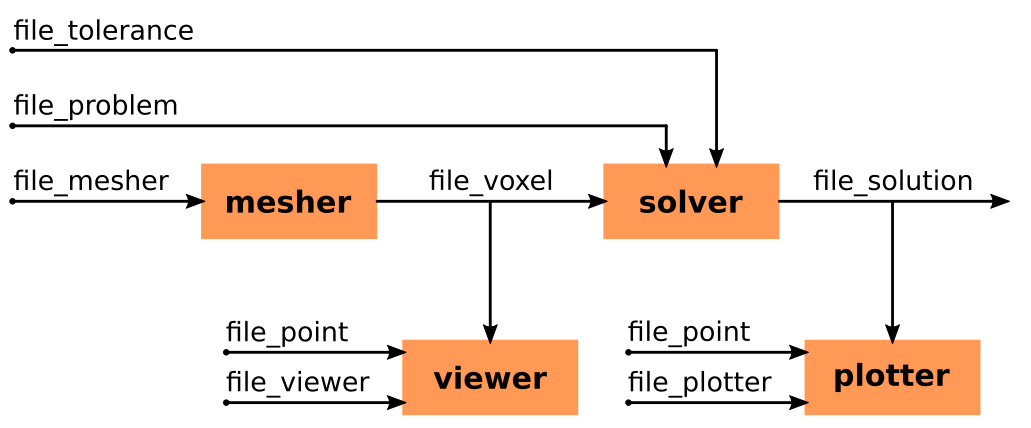
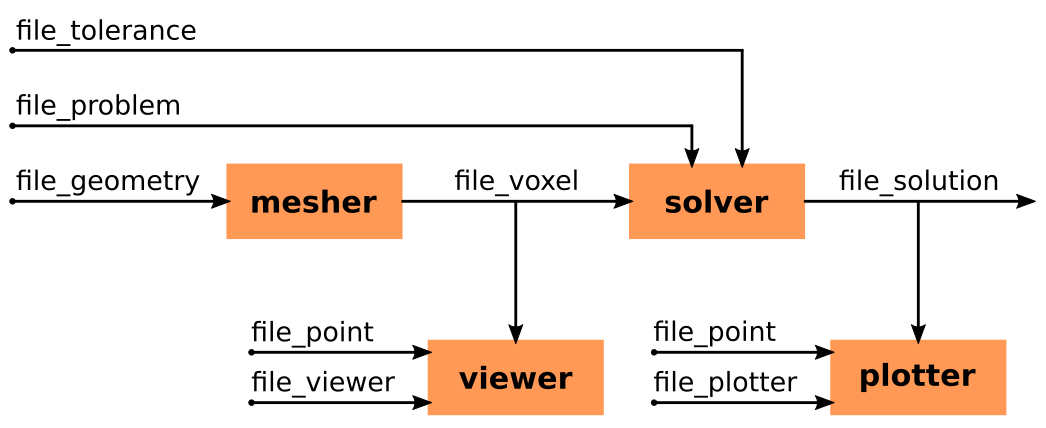
Update documentation

diff --git a/pypeec/main.py b/pypeec/main.py
@@ -48,14 +48,14 @@ def run_mesher(file_geometry, file_voxel):
     try:
         # load data
         logger.info("load the input data")
-        data_mesher = fileio.load_config(file_geometry)
+        data_geometry = fileio.load_config(file_geometry)
 
         # get the path for relative file loading
         path_ref = os.path.abspath(file_geometry)
         path_ref = os.path.dirname(path_ref)
 
         # call the mesher
-        (status, data_voxel, ex) = mesher.run(data_mesher, path_ref)
+        (status, data_voxel, ex) = mesher.run(data_geometry, path_ref)
 
         # save results
         if status:

diff --git a/docs/format.md b/docs/format.md
@@ -4,9 +4,9 @@
 
 ![viewer](images/workflow.png)
 
-## Mesher File Format
+## Geometry File Format
 
-The `file_mesher` file format is used by the mesher.
+The `file_geometry` file format is used by the mesher.
 This file contains the definition of the voxel structure.
 
 ```yaml
@@ -160,13 +160,15 @@ This file contains the definition of the voxel structure.
     
     # definition of the STL files of the different domains
     #   - dict with the domain name and the STL files
-    #   - the STL files are specified with an array
     #   - required information, the dict cannot be empty
+    #   - domain definition
+    #       - offset: array with offsets for translating the STL meshes
+    #       - filename_list: list of strings with the STL files defining the domain
     "domain_stl":
-        "dom_src": ["stl/dom_src.stl"]
-        "dom_cond": ["stl/dom_cond.stl"]
-        "dom_sink": ["stl/dom_sink.stl"]
-        "dom_mag": ["stl/dom_mag.stl"]
+        "dom_src": {"offset": [0.0, 0.0, 0.0], "filename_list": ["stl/dom_src.stl"]}
+        "dom_cond": {"offset": [0.0, 0.0, 0.0], "filename_list": ["stl/dom_cond.stl"]}
+        "dom_sink": {"offset": [0.0, 0.0, 0.0], "filename_list": ["stl/dom_sink.stl"]}
+        "dom_mag": {"offset": [0.0, 0.0, 0.0], "filename_list": ["stl/dom_mag.stl"]}
 ```
 
 ## Problem File Format

diff --git a/docs/tutorial.md b/docs/tutorial.md
@@ -49,7 +49,7 @@ Additionally, a command line tool is located in the `pypeec.script` module:
 ## Input/Output File Description
 
 The following input files (JSON or YAML format) are used:
-* `file_mesher` (JSON or YAML, input file): description of the geometry
+* `file_geometry` (JSON or YAML, input file): description of the geometry
 * `file_problem` (JSON or YAML, input file): description of the magnetic problem
 * `file_tolerance` (JSON or YAML, input file): description of the solver numerical options
 * `file_point` (JSON or YAML, input file): definition of a point cloud for evaluating the magnetic field
